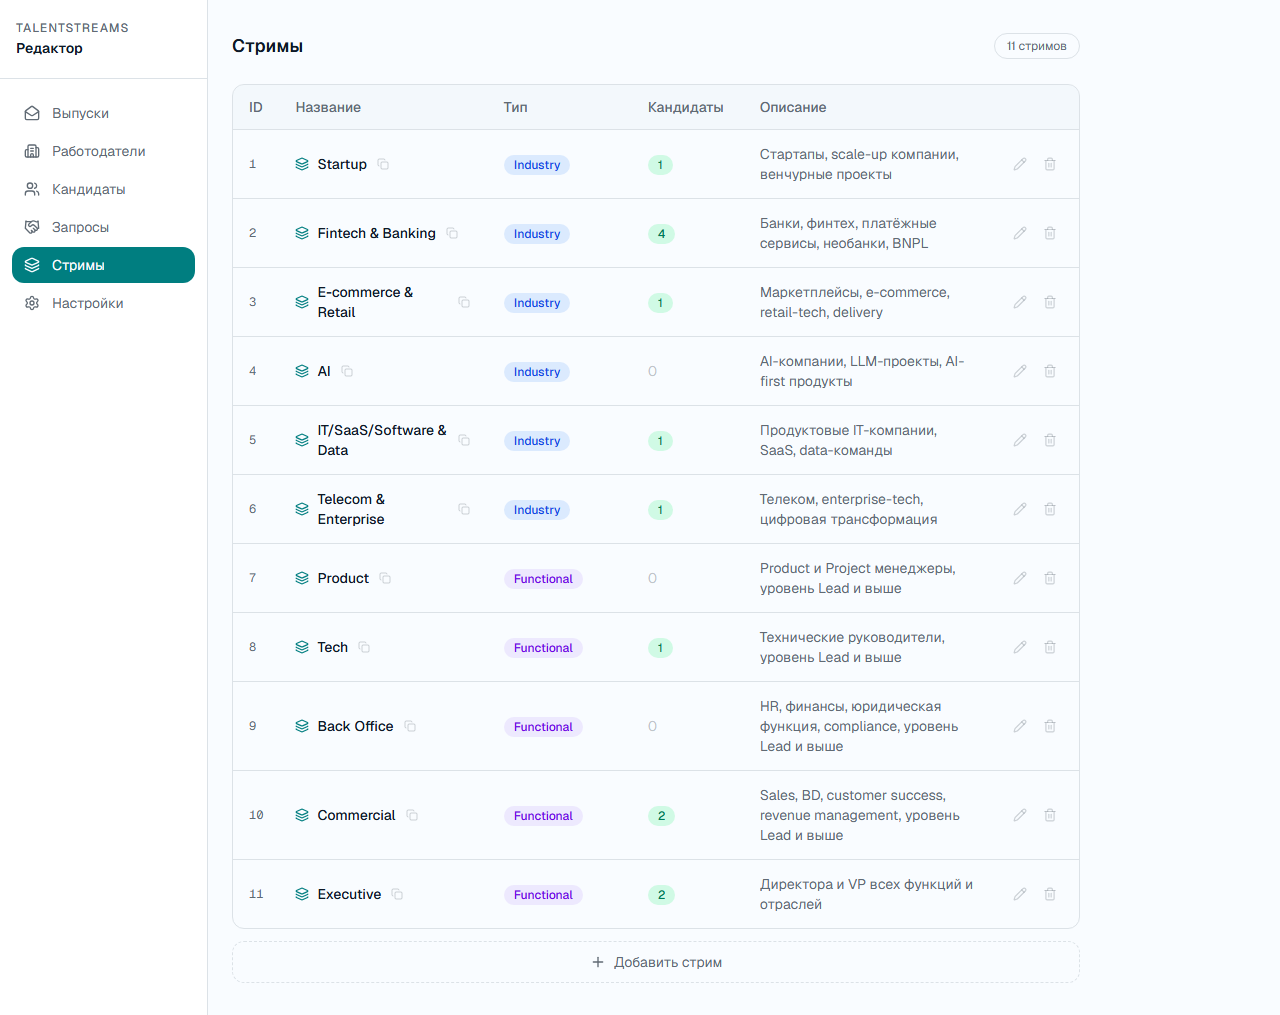
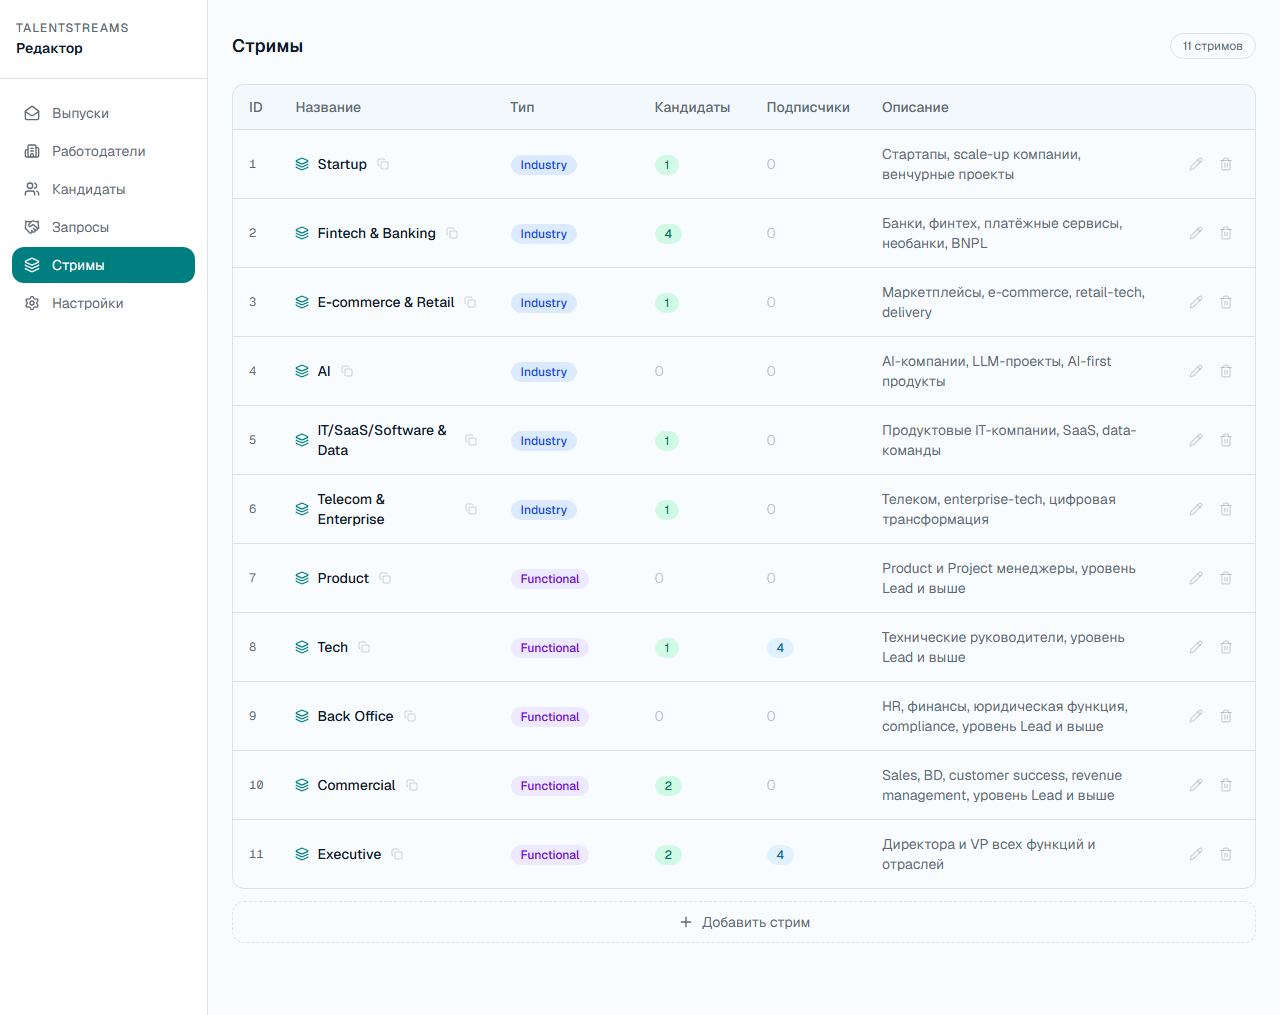
Счётчик подписчиков на странице стримов (#55)
Рядом со счётчиком подходящих кандидатов (TASK-27) в /editor/streams
добавлена колонка «Подписчики» — число подтверждённых работодателей
(status === "Подтверждён"), у которых этот стрим есть в списке streams.
Заявки «На проверке» и отклонённые не считаются.

lib/db/employers.ts — новая confirmedEmployersForStream(employers, stream),
чистая функция без I/O, мирроит getCandidatesForStream() (lib/sheets.ts,
TASK-27): фильтрует уже загруженный массив вместо отдельного запроса на
каждый стрим (в отличие от существующей getEmployersByStream(), которая
как раз по одному запросу на стрим и остаётся неиспользуемой).

app/editor/streams/page.tsx — один getEmployers() на всю страницу,
оба счётчика считаются в памяти для всех 11 стримов.

Обновлена документация: backlog.adoc, workspace.dsl, manager-playbook.adoc
(текст + пересобранный скриншот страницы стримов) и синхронизированный
Claude Artifact. Заодно досинхронизировал артефакт с более ранними
правками (bio/website/location, колонка заметок), которые туда не попали
в прошлый раз.

Прогнано на реальных данных: прямой запрос к БД (4 подтверждённых
работодателя из 19, все на Tech/Executive) совпал с тем, что показывает
таблица.

diff --git a/components/streams-table.tsx b/components/streams-table.tsx
@@ -17,9 +17,11 @@ const EMPTY_FORM = { name: "", type: "Industry", description: "" }
 export function StreamsTable({
   streams,
   candidateCounts = {},
+  subscriberCounts = {},
 }: {
   streams: StreamRecord[]
   candidateCounts?: Record<number, number>
+  subscriberCounts?: Record<number, number>
 }) {
   const [editingId, setEditingId]   = useState<number | null>(null)
   const [editData, setEditData]     = useState<typeof EMPTY_FORM | null>(null)
@@ -77,6 +79,7 @@ export function StreamsTable({
               <th className="px-4 py-3 text-left font-medium text-muted-foreground">Название</th>
               <th className="px-4 py-3 text-left font-medium text-muted-foreground w-36">Тип</th>
               <th className="px-4 py-3 text-left font-medium text-muted-foreground w-28" title="Активные кандидаты, чей тег совпадает с названием стрима (TASK-27)">Кандидаты</th>
+              <th className="px-4 py-3 text-left font-medium text-muted-foreground w-28" title="Подтверждённые работодатели, подписанные на этот стрим">Подписчики</th>
               <th className="px-4 py-3 text-left font-medium text-muted-foreground">Описание</th>
               <th className="px-4 py-3 w-20" />
             </tr>
@@ -114,6 +117,9 @@ export function StreamsTable({
                       </td>
                       <td className="px-4 py-3.5 text-muted-foreground">
                         {candidateCounts[stream.id] ?? 0}
+                      </td>
+                      <td className="px-4 py-3.5 text-muted-foreground">
+                        {subscriberCounts[stream.id] ?? 0}
                       </td>
                       <td className="px-4 py-2">
                         <input
@@ -163,6 +169,15 @@ export function StreamsTable({
                           <span className="text-muted-foreground/40">0</span>
                         )}
                       </td>
+                      <td className="px-4 py-3.5">
+                        {subscriberCounts[stream.id] ? (
+                          <span className="inline-flex items-center rounded-full bg-sky-100 px-2.5 py-0.5 text-xs font-medium text-sky-700 dark:bg-sky-900/30 dark:text-sky-400">
+                            {subscriberCounts[stream.id]}
+                          </span>
+                        ) : (
+                          <span className="text-muted-foreground/40">0</span>
+                        )}
+                      </td>
                       <td className="px-4 py-3.5 text-muted-foreground">
                         {stream.description || <span className="text-muted-foreground/40">—</span>}
                       </td>
@@ -206,6 +221,7 @@ export function StreamsTable({
                     {STREAM_TYPES.map((t) => <option key={t} value={t}>{t}</option>)}
                   </select>
                 </td>
+                <td className="px-4 py-3.5 text-muted-foreground/40">—</td>
                 <td className="px-4 py-3.5 text-muted-foreground/40">—</td>
                 <td className="px-4 py-2">
                   <input

diff --git a/app/editor/streams/page.tsx b/app/editor/streams/page.tsx
@@ -1,6 +1,7 @@
 import { notFound } from "next/navigation"
 import { getStreamsDetailed } from "@/lib/db/streams"
 import { getProfiles, getCandidatesForStream, isSheetsConfigured } from "@/lib/sheets"
+import { getEmployers, confirmedEmployersForStream } from "@/lib/db/employers"
 import { StreamsTable } from "@/components/streams-table"
 
 export const dynamic = "force-dynamic"
@@ -14,13 +15,17 @@ export default async function StreamsPage({
   const editorSecret = process.env.EDITOR_SECRET
   if (editorSecret && secret !== editorSecret) notFound()
 
-  const [streams, candidates] = await Promise.all([
+  const [streams, candidates, allEmployers] = await Promise.all([
     getStreamsDetailed(),
     isSheetsConfigured() ? getProfiles() : Promise.resolve([]),
+    getEmployers(),
   ])
 
   const candidateCounts = Object.fromEntries(
     streams.map((s) => [s.id, getCandidatesForStream(candidates, s).length]),
+  )
+  const subscriberCounts = Object.fromEntries(
+    streams.map((s) => [s.id, confirmedEmployersForStream(allEmployers, s).length]),
   )
 
   return (
@@ -37,7 +42,7 @@ export default async function StreamsPage({
           Стримы не найдены в базе данных.
         </div>
       ) : (
-        <StreamsTable streams={streams} candidateCounts={candidateCounts} />
+        <StreamsTable streams={streams} candidateCounts={candidateCounts} subscriberCounts={subscriberCounts} />
       )}
     </div>
   )

diff --git a/lib/db/employers.ts b/lib/db/employers.ts
@@ -64,6 +64,19 @@ export async function getEmployersByStream(stream: string): Promise<Employer[]> 
 }
 
 /**
+ * Confirmed employers subscribed to a given stream — mirrors getCandidatesForStream()
+ * (lib/sheets.ts, TASK-27): filters an already-loaded array instead of querying per stream,
+ * so a page listing all streams does one fetch instead of one per stream.
+ */
+export function confirmedEmployersForStream(employers: Employer[], stream: { name: string }): Employer[] {
+  const name = stream.name.trim().toLowerCase()
+  if (!name) return []
+  return employers.filter(
+    (e) => e.status === "Подтверждён" && e.streams.some((s) => s.trim().toLowerCase() === name),
+  )
+}
+
+/**
  * Filter candidates for a specific employer, removing those who have excluded
  * the employer's company or industry from their preferences.
  */
